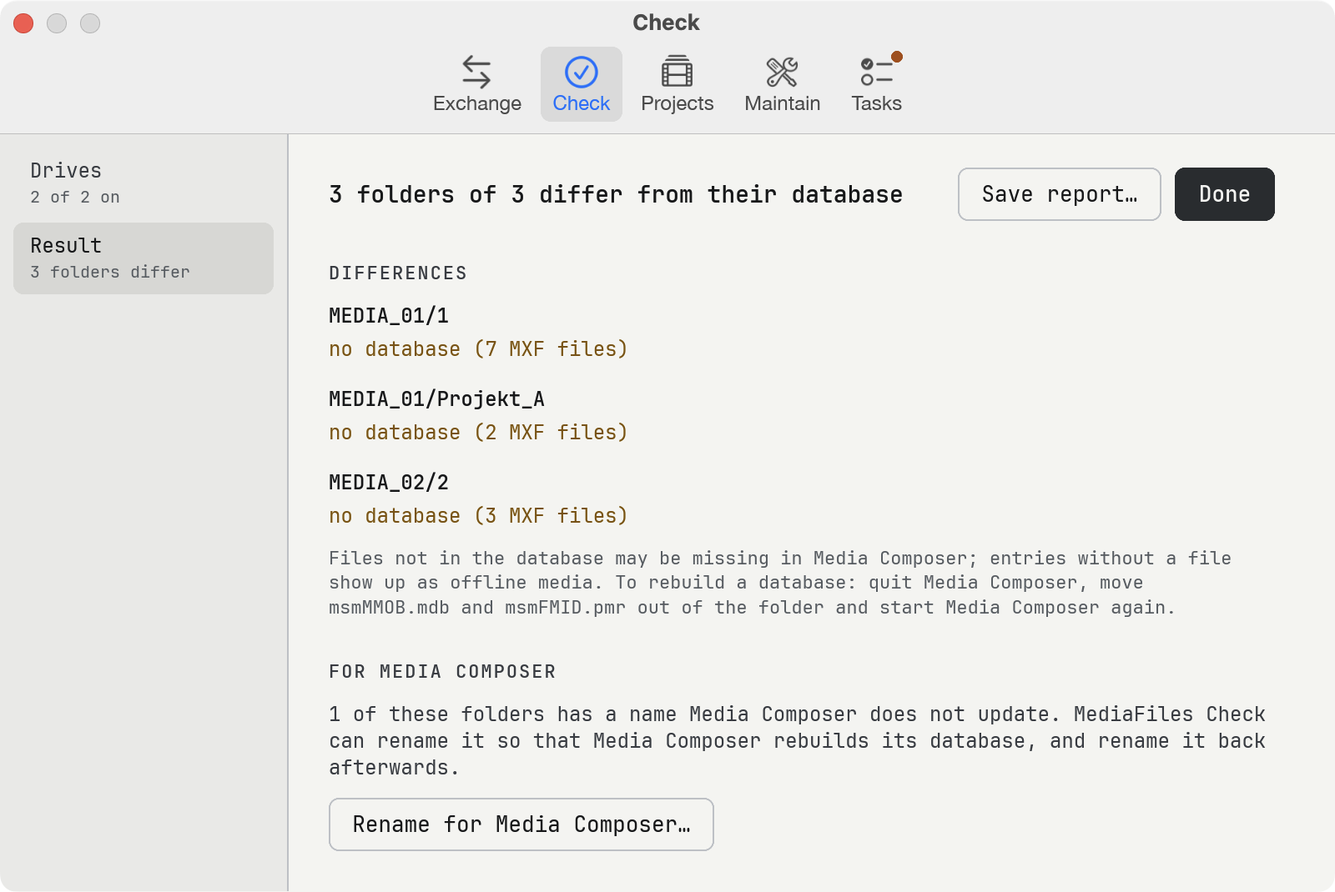
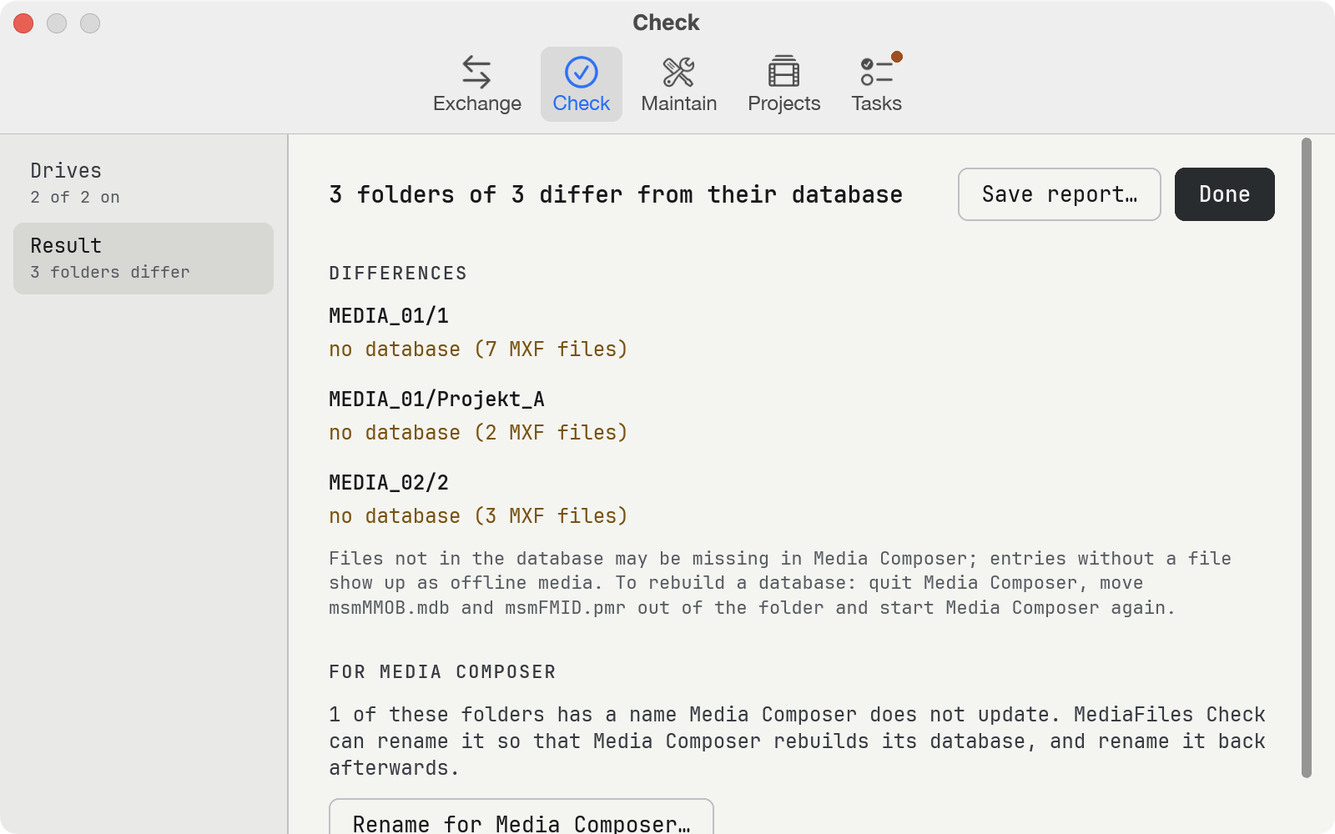
Window 800 × 500, Maintain before Projects
Every tab of the main window is 800 × 500 (the former Exchange height).
Tab order: Exchange, Check, Maintain, Projects, Tasks – also in the
welcome card, the manual and the README. The project list and the
history box are shorter so they fit. Screenshots taken again.

diff --git a/CLAUDE.md b/CLAUDE.md
@@ -16,10 +16,10 @@ Mac app (Rust core + Slint) for the Avid MXF media of edit systems. Since 2026-1
 - Avid projects (`src/projects.rs`, tab Projects – formerly `ProjectsWindow`/`AmaWindow`, now steps Choose projects / Missing media / AMA clips / Request in `ProjectsPane`): project = folder with an `.avp` (no search inside a project – shared projects have more .avp in AvidSharedData), bins without `Attic`. Bin items are all mobs, Media Composer hides most: shown clips = masters, subclips (usage 2), sequences (composition, usage 0). Master usage 1 = render (precompute) master "<sequence>,<effect>,<n>" – their missing files are only counted (`renders`), not listed or requested (test project: 919 render vs 17 real). Result per bin: missing files grouped by name (master clip that owns the file, else file mob name – often just "File" – else first use), each with its uses; ProjectsWindow is 680 px wide, `MissingList` rows open per group (`ProjectsState.open`). References to mobs in other bins are resolved per project. Available = first ID of every msmFMID.pmr entry whose file is really in the folder, plus MXF files in no database identified by their header (`src/mxf.rs`: essence container data → LinkedPackageUID = file package UMID; material number's first three fields big-endian in MXF, swapped to the pmr/bin layout – verified identical to the pmr ID for all ~8,700 files of samples from three of the user's media drives and the Ferry test environment); dot files (AppleDouble `._`) skipped; a drive silent for 30 s is skipped (`available_media`, hanging macFUSE/network mounts block forever). AMA = media descriptor with extension 0x01 (acfUID of the AMA plugin; `Mob::ama`) – AMA files still carry an MSML locator, so the locator says nothing; 4 test projects: 790 AMA file mobs, none in any msmFMID.pmr – not requested; listed per bin with their uses (`ScanResult::ama_by_bin`) in their own `AmaWindow` ("Show AMA clips…" in the result, own open set `ProjectsState::ama_open`, hidden when a new scan starts) and in the saved list. An AMA file whose master clip has a namesake master in the same project with all its media on the drives (linked first, imported later) is left out (`ama_covered`, only counted). Relink = missing file whose source (name of the tape/camera/import source mob below the file mob, `Bin::source_name`, + picture/sound) belongs to an available file mob in the scanned bins (e.g. re-transcoded dailies: new file mob IDs, old bins still point to the old ones) – marked, not requested. "Unmanaged" = file mob without MSML locator (AAF imports) – counted separately, still requested (Ferry only finds what is in Avid MediaFiles). File mob without any locator = no media was ever made (camera sound tracks of camera master clips when only the picture was delivered and sound comes from an external recorder; test project: 839 of 883 "missing") – left out, counted as `no_media`. A source clip points at one track (track number + media kind) of its mob; `Bin::used_tracks` follows only that one (a picture-only subclip must not need the camera sound), all tracks if it is not found. Request = JSON `{format: "mediafiles-ferry-request", version, system, created, files: [{id (64 hex), clip, bin, project}]}`, file `YYMMDD-HHMM_<computer>_Request.ferry`; Ferry reads it in `src/request.rs` (keep both sides in step). Windows that grow stay unpainted below their old height on macOS: every window reports height changes (`CheckWindow`: `changed height => Shared.resized()`) and is wired with `repaint_on_resize!` (app.rs) – use it for any new window.
 
 ## UI
-Main window fixed 800 × 600 for every tab (user: the window must never change size; capped at the screen) – long pages and lists scroll inside; the media lists of Projects open in their own `MediaWindow` (900 × 680, Show media… / Show clips…); wrapping texts need a fixed width (`Metrics.content-width` = content column) – a layout-derived width makes Slint measure one line too few or loops; JetBrains Mono, title in Helvetica Neue Light, colours only from `Theme` (copied from Ferry). Menu: app menu → About and app menu → Settings… (⌘,) both open `SettingsWindow` (About always on the About tab; Settings… on the last other tab, saved as line 3 of settings.txt) – styled like Mountpoint's settings at the user's request: 800 × 450 (16:9, never grows), content under a transparent title bar (`mac_window::unify_titlebar`, full-size content view, minimize dimmed) so the tab bar and the title bar are one surface: #383838/#292929 dark, #f0f0f0/#e7e7e7 light, active/inactive measured from a real NSToolbar window (`active` set at once from swizzled NSWindow becomeKeyWindow/resignKeyWindow – polling lagged behind the title bar), 0.5 px separator; tabs `SettingsTab` (General / Updates / Support / About, Helvetica Neue 12 – the system-font alias lost umlauts –, icons = SF Symbols rendered by `scripts/make-tab-icons.swift` into `assets/tabs/`, tinted with `colorize`, also the self-test status icons), window title = tab, 560 px column, `SettingRow` + `Hint`, buttons `CheckButton { small: true }` (26 px like FerryButtonStyle in Mountpoint's settings); General: Light/Dark `Switch`, language `Dropdown` = Mountpoint's dropdown with a native menu. Toast and fields copied from Mountpoint's Support.swift (toast bottom 44, as wide as its text, slides in; fields: 1 px line, radius 6, no fill); self-test list 200 high like Mountpoint, list and description field show a `ScrollThumb`. Weights in the settings window (measured against Mountpoint: Slint draws text about 20 % lighter than CoreText): default Medium (`default-font-weight: 500`, `ui/fonts/JetBrainsMono-Medium.ttf`, OFL, release 2.304), row titles SemiBold, small buttons SemiBold/Bold – they then look like Mountpoint's Regular/SemiBold. The first text line sits at the same height on every tab (General = Mountpoint's position is the reference; tabs starting with a 26 px button row get 3 px less top padding). Updates tab: "Get test versions" (`Settings.betas`, line 4 of settings.txt; `update::check(…, betas)` includes GitHub prereleases with it or while a test version runs); switching it hides "up to date"/errors and checks again quietly. `Shared.refresh-update` must stay wired in main (it once got lost and "up to date" never showed). Icon: concept A "Badge" (2026-11-09) – solid database + green check on Mountpoint's plate, `scripts/make-icon.swift` → `assets/AppIcon.iconset` + `assets/icon.png` (also the About tab), vector master `assets/icon.svg`. Colours: every NSWindow is tagged sRGB in its initializer (`mac_window::srgb_windows`, swizzled NSWindow init) – Slint's OpenGL output is not colour-managed and #1f2225 showed as #21262a; set later it only worked now and then. Window appearance (title text, traffic lights) follows the app's Light/Dark (`appearance_all`) – `mac_menu` in app.rs swaps NSApplication's About panel methods and adds the Settings item (re-added after Slint's menu rebuilds via `setMainMenu:` swizzle, a timer after language changes and the 2 s timer); Help → Manual, Show Log File (`src/log.rs`, `~/Library/Logs/MediaFiles Check/`) (`HelpWindow`, content from `docs/help/<code>.md`, split by `help_blocks` – same as Ferry; paragraphs need a fixed width or the scroll height comes out too short). Drive list: green dot (drive ready), name, `Switch` on the right (Mountpoint style) (new drives ticked), polled every 2 s on the start page (`sync_drives`). Settings in `~/Library/Application Support/MediaFiles Check/settings.txt`. The result shows up to 10 file names per finding; the saved report has all.
+Main window fixed 800 × 500 for every tab (user: the window must never change size; capped at the screen) – long pages and lists scroll inside; the media lists of Projects open in their own `MediaWindow` (900 × 680, Show media… / Show clips…); wrapping texts need a fixed width (`Metrics.content-width` = content column) – a layout-derived width makes Slint measure one line too few or loops; JetBrains Mono, title in Helvetica Neue Light, colours only from `Theme` (copied from Ferry). Menu: app menu → About and app menu → Settings… (⌘,) both open `SettingsWindow` (About always on the About tab; Settings… on the last other tab, saved as line 3 of settings.txt) – styled like Mountpoint's settings at the user's request: 800 × 450 (16:9, never grows), content under a transparent title bar (`mac_window::unify_titlebar`, full-size content view, minimize dimmed) so the tab bar and the title bar are one surface: #383838/#292929 dark, #f0f0f0/#e7e7e7 light, active/inactive measured from a real NSToolbar window (`active` set at once from swizzled NSWindow becomeKeyWindow/resignKeyWindow – polling lagged behind the title bar), 0.5 px separator; tabs `SettingsTab` (General / Updates / Support / About, Helvetica Neue 12 – the system-font alias lost umlauts –, icons = SF Symbols rendered by `scripts/make-tab-icons.swift` into `assets/tabs/`, tinted with `colorize`, also the self-test status icons), window title = tab, 560 px column, `SettingRow` + `Hint`, buttons `CheckButton { small: true }` (26 px like FerryButtonStyle in Mountpoint's settings); General: Light/Dark `Switch`, language `Dropdown` = Mountpoint's dropdown with a native menu. Toast and fields copied from Mountpoint's Support.swift (toast bottom 44, as wide as its text, slides in; fields: 1 px line, radius 6, no fill); self-test list 200 high like Mountpoint, list and description field show a `ScrollThumb`. Weights in the settings window (measured against Mountpoint: Slint draws text about 20 % lighter than CoreText): default Medium (`default-font-weight: 500`, `ui/fonts/JetBrainsMono-Medium.ttf`, OFL, release 2.304), row titles SemiBold, small buttons SemiBold/Bold – they then look like Mountpoint's Regular/SemiBold. The first text line sits at the same height on every tab (General = Mountpoint's position is the reference; tabs starting with a 26 px button row get 3 px less top padding). Updates tab: "Get test versions" (`Settings.betas`, line 4 of settings.txt; `update::check(…, betas)` includes GitHub prereleases with it or while a test version runs); switching it hides "up to date"/errors and checks again quietly. `Shared.refresh-update` must stay wired in main (it once got lost and "up to date" never showed). Icon: concept A "Badge" (2026-11-09) – solid database + green check on Mountpoint's plate, `scripts/make-icon.swift` → `assets/AppIcon.iconset` + `assets/icon.png` (also the About tab), vector master `assets/icon.svg`. Colours: every NSWindow is tagged sRGB in its initializer (`mac_window::srgb_windows`, swizzled NSWindow init) – Slint's OpenGL output is not colour-managed and #1f2225 showed as #21262a; set later it only worked now and then. Window appearance (title text, traffic lights) follows the app's Light/Dark (`appearance_all`) – `mac_menu` in app.rs swaps NSApplication's About panel methods and adds the Settings item (re-added after Slint's menu rebuilds via `setMainMenu:` swizzle, a timer after language changes and the 2 s timer); Help → Manual, Show Log File (`src/log.rs`, `~/Library/Logs/MediaFiles Check/`) (`HelpWindow`, content from `docs/help/<code>.md`, split by `help_blocks` – same as Ferry; paragraphs need a fixed width or the scroll height comes out too short). Drive list: green dot (drive ready), name, `Switch` on the right (Mountpoint style) (new drives ticked), polled every 2 s on the start page (`sync_drives`). Settings in `~/Library/Application Support/MediaFiles Check/settings.txt`. The result shows up to 10 file names per finding; the saved report has all.
 
 ## Main window: tabs and steps (one app, 2026-11-09)
-`AppWindow`: tab bar in the title-bar surface like the settings window (`SettingsTab` with `attention` = small orange dot; `unify_titlebar` + `active` also for the main window), optional update bar, then sidebar (172 px, `SideItem`: step name + faint status line – variant C: no numbers, no checkmarks, no green) and the content column. Tabs: 0 Exchange, 1 Check, 2 Projects, 3 Maintain, 4 Tasks; window title = tab. `Page` says what the content shows; `tab-of`/`step-of` map pages to tab and sidebar step, every tab remembers its page (`page0`…`page4`), a page set from Rust switches to its tab (working/notice stay where they are). Rust's "back" = `invoke_home()` (start page of the current step). Projects, Exchange and Tasks keep their state in globals (`Projects`, `Exchange`, `Tasks`) with a `view` = sidebar step, drawn by `ProjectsPane`/`ExchangePane`/`TasksPane`. Page heads: `PageHead` (title left, actions right); Maintain tools show their flow as `FlowStrip` (current part bold). One set of drive switches for Check and Exchange (`Drives`, persisted in `drives-off.txt` by `key` of the name; the first time Ferry's settings.json `skip` is taken over).
+`AppWindow`: tab bar in the title-bar surface like the settings window (`SettingsTab` with `attention` = small orange dot; `unify_titlebar` + `active` also for the main window), optional update bar, then sidebar (172 px, `SideItem`: step name + faint status line – variant C: no numbers, no checkmarks, no green) and the content column. Tabs (index): 0 Exchange, 1 Check, 2 Projects, 3 Maintain, 4 Tasks – shown in the order Exchange, Check, Maintain, Projects, Tasks (user, 2026-11-09); window title = tab. `Page` says what the content shows; `tab-of`/`step-of` map pages to tab and sidebar step, every tab remembers its page (`page0`…`page4`), a page set from Rust switches to its tab (working/notice stay where they are). Rust's "back" = `invoke_home()` (start page of the current step). Projects, Exchange and Tasks keep their state in globals (`Projects`, `Exchange`, `Tasks`) with a `view` = sidebar step, drawn by `ProjectsPane`/`ExchangePane`/`TasksPane`. Page heads: `PageHead` (title left, actions right); Maintain tools show their flow as `FlowStrip` (current part bold). One set of drive switches for Check and Exchange (`Drives`, persisted in `drives-off.txt` by `key` of the name; the first time Ferry's settings.json `skip` is taken over).
 
 ## Exchange (formerly MediaFiles Ferry)
 Core in `src/ferry/` (copied from the Ferry repo with its tests: scan, plan, collect, request, flow; `use crate::ferry::*`). Rules carried over: never delete a media file, never overwrite one; a database is only delivered/replaced if the target folder ends up exactly like the source (else task "rebuild database"), replaced ones go to `Avid MediaFiles/Ferry-Backup/`; present = same name + hash anywhere on the other side, same name + different hash = task; import verifies the whole delivery first and only imports a complete one; `key()` compare, `write_atomic`. File names stay readable for existing users: `.ferry` manifests/requests, `ferry-delivery.json`, `Ferry-Backup/`, `Tasks.txt`/`Aufgaben.txt`. Ferry's Application Support folder "MediaFiles Ferry" (checksum cache, last-manifest.json, mappings.json) is used as is (`ferry_dir`). Task texts (`Task::describe`) and the delivery's task file are in all four languages via `pick` (file name `Aufgaben.txt` for de, else `Tasks.txt`). UI wiring `wire_exchange` (app.rs); worker threads never hold `Rc` – they call a global callback (`Exchange.rescanned`, `Tasks.reload`) via `invoke_from_event_loop`. Tested end to end on two disk images (scan, compare with mapping + merge, collect, import, byte-identical).

diff --git a/docs/help/fr.md b/docs/help/fr.md
@@ -6,8 +6,8 @@ MediaFiles Check prend soin des fichiers média Avid (MXF) de vos postes de mont
 
 - **Échange** synchronise les médias de deux postes, même s’ils ne sont pas connectés (anciennement MediaFiles Ferry).
 - **Vérifier** compare chaque dossier de `Avid MediaFiles/MXF` à sa base de données Avid et montre où les deux ne concordent pas.
-- **Projets** trouve les fichiers média dont les chutiers de vos projets Avid ont besoin et qui ne sont sur aucun disque, et les demande.
 - **Entretien** regroupe les outils qui modifient quelque chose : renommer des dossiers pour Media Composer, rééquilibrage, doublons et leur historique.
+- **Projets** trouve les fichiers média dont les chutiers de vos projets Avid ont besoin et qui ne sont sur aucun disque, et les demande.
 - **Tâches** réunit tout ce qu’il faut faire à la main.
 
 MediaFiles Check **ne supprime jamais** un fichier média et **n’en écrase jamais**. Vérifier ne fait que lire.
@@ -84,21 +84,6 @@ Jusqu’à 10 noms de fichiers sont affichés par constat ; **Enregistrer le rap
 
 ![Résultat de la vérification](images/fr/check.png)
 
-## Projets
-
-1. Projets › **Choisir les projets** → **Choisir un dossier…** : le dossier de vos projets Avid (chaque dossier avec un fichier `.avp` ; `Attic` est laissé de côté). Il est mémorisé. Activez les projets à vérifier et cliquez sur **Analyser**.
-2. **Médias manquants** liste par chutier chaque fichier média manquant une fois, nommé d’après son master clip. Un clic montre où il est utilisé. **Enregistrer la liste…** écrit la liste entière.
-3. **Clips AMA** montre où sont utilisés les fichiers liés en AMA. Ils ne sont pas demandés.
-4. **Demander** → **Enregistrer la demande…** écrit un fichier `…_Request.ferry`. Envoyez-le au poste qui a les médias ; là-bas : Échange › Comparer, ouvrez-le, puis Rassembler. Ici : Échange › Importer la livraison.
-
-Bon à savoir :
-
-- Les clips sont reliés à leurs médias par les ID média d’Avid, pas par les noms de fichiers. Un fichier présent dans aucune base Avid est reconnu par l’ID de son en-tête MXF.
-- Un fichier manquant dont la source se trouve sur les disques dans un autre fichier média est marqué **sur les disques – reconnecter** : reconnectez-le dans Media Composer. Il n’est pas demandé.
-- Les fichiers sans référence média Avid (p. ex. importés par AAF) sont comptés à part ; l’échange ne les trouve que si l’autre poste les a dans Avid MediaFiles.
-- Les pistes son de caméra qui n’ont jamais eu de fichier média et les fichiers de rendu manquants sont seulement comptés.
-- Un disque qui ne répond pas pendant 30 secondes est ignoré et nommé dans le résultat.
-
 ## Renommer pour Media Composer
 
 Media Composer ne reconstruit que les bases de données de ses propres dossiers : des dossiers numérotés comme `1` sur les disques locaux, `<nom de l’ordinateur>.<numéro>` sur les disques réseau. Les autres dossiers – p. ex. copiés depuis un autre poste – gardent leur ancienne base. Entretien › **Renommer** montre le déroulement en haut : Renommer — Media Composer écrit — Renommer à l’origine.
@@ -134,6 +119,21 @@ Le point vert marque la copie qui reste (celle que connaît la base de son dossi
 ## Historique
 
 Entretien › **Historique** liste chaque opération de rééquilibrage et de doublons : **Réécrire les bases** fait l’étape des bases plus tard, **Annuler** remet tout en place (jamais par-dessus un fichier existant) – renommez d’abord à l’origine les dossiers renommés.
+
+## Projets
+
+1. Projets › **Choisir les projets** → **Choisir un dossier…** : le dossier de vos projets Avid (chaque dossier avec un fichier `.avp` ; `Attic` est laissé de côté). Il est mémorisé. Activez les projets à vérifier et cliquez sur **Analyser**.
+2. **Médias manquants** liste par chutier chaque fichier média manquant une fois, nommé d’après son master clip. Un clic montre où il est utilisé. **Enregistrer la liste…** écrit la liste entière.
+3. **Clips AMA** montre où sont utilisés les fichiers liés en AMA. Ils ne sont pas demandés.
+4. **Demander** → **Enregistrer la demande…** écrit un fichier `…_Request.ferry`. Envoyez-le au poste qui a les médias ; là-bas : Échange › Comparer, ouvrez-le, puis Rassembler. Ici : Échange › Importer la livraison.
+
+Bon à savoir :
+
+- Les clips sont reliés à leurs médias par les ID média d’Avid, pas par les noms de fichiers. Un fichier présent dans aucune base Avid est reconnu par l’ID de son en-tête MXF.
+- Un fichier manquant dont la source se trouve sur les disques dans un autre fichier média est marqué **sur les disques – reconnecter** : reconnectez-le dans Media Composer. Il n’est pas demandé.
+- Les fichiers sans référence média Avid (p. ex. importés par AAF) sont comptés à part ; l’échange ne les trouve que si l’autre poste les a dans Avid MediaFiles.
+- Les pistes son de caméra qui n’ont jamais eu de fichier média et les fichiers de rendu manquants sont seulement comptés.
+- Un disque qui ne répond pas pendant 30 secondes est ignoré et nommé dans le résultat.
 
 ## Tâches
 

diff --git a/docs/help/es.md b/docs/help/es.md
@@ -6,8 +6,8 @@ MediaFiles Check cuida de los archivos de medios de Avid (MXF) de tus puestos de
 
 - **Intercambio** mantiene al día los medios de dos puestos, aunque no estén conectados (antes MediaFiles Ferry).
 - **Comprobar** compara cada carpeta de `Avid MediaFiles/MXF` con su base de datos de Avid y muestra dónde no coinciden.
-- **Proyectos** encuentra los archivos de medios que necesitan los bins de tus proyectos de Avid y que no están en ninguna unidad, y los solicita.
 - **Mantenimiento** reúne las herramientas que cambian algo: renombrar carpetas para Media Composer, reequilibrado, duplicados y su historial.
+- **Proyectos** encuentra los archivos de medios que necesitan los bins de tus proyectos de Avid y que no están en ninguna unidad, y los solicita.
 - **Tareas** recoge todo lo que hay que hacer a mano.
 
 MediaFiles Check **nunca borra** un archivo de medios y **nunca sobrescribe** ninguno. Comprobar solo lee.
@@ -84,21 +84,6 @@ Se muestran hasta 10 nombres de archivo por hallazgo; **Guardar informe…** los
 
 ![Resultado de la comprobación](images/es/check.png)
 
-## Proyectos
-
-1. Proyectos › **Elegir proyectos** → **Elegir carpeta…**: la carpeta con tus proyectos de Avid (cada carpeta con un archivo `.avp`; `Attic` se deja fuera). Se recuerda. Activa los proyectos que quieras comprobar y haz clic en **Analizar**.
-2. **Medios que faltan** muestra por bin cada archivo de medios que falta una vez, con el nombre de su master clip. Un clic muestra dónde se usa. **Guardar lista…** escribe la lista entera.
-3. **Clips AMA** muestra dónde se usan los archivos vinculados por AMA. No se solicitan.
-4. **Solicitar** → **Guardar solicitud…** escribe un archivo `…_Request.ferry`. Envíalo al puesto que tiene los medios; allí: Intercambio › Comparar, ábrelo y luego Reunir. Aquí: Intercambio › Importar la entrega.
-
-Conviene saber:
-
-- Los clips se relacionan con sus medios por los ID de medios de Avid, no por los nombres de archivo. Un archivo que no está en ninguna base de Avid se reconoce por el ID de su cabecera MXF.
-- Un archivo que falta cuya fuente está en las unidades en otro archivo de medios se marca **en las unidades: volver a vincular**: vuelve a vincularlo en Media Composer. No se solicita.
-- Los archivos sin referencia de medios de Avid (p. ej. importados por AAF) se cuentan aparte; el intercambio solo los encuentra si el otro puesto los tiene en Avid MediaFiles.
-- Las pistas de sonido de cámara que nunca tuvieron archivo de medios y los archivos de render que faltan solo se cuentan.
-- Una unidad que no responde durante 30 segundos se omite y se nombra en el resultado.
-
 ## Renombrar para Media Composer
 
 Media Composer solo reconstruye las bases de datos de sus propias carpetas: carpetas numeradas como `1` en unidades locales, `<nombre del equipo>.<número>` en unidades de red. Las demás carpetas, p. ej. copiadas de otro puesto, conservan su base de datos antigua. Mantenimiento › **Renombrar** muestra el proceso arriba: Renombrar — Media Composer escribe — Recuperar el nombre.
@@ -134,6 +119,21 @@ El punto verde marca la copia que se queda (la que conoce la base de datos de su
 ## Historial
 
 Mantenimiento › **Historial** muestra cada operación de reequilibrado y de duplicados: **Reescribir bases de datos** hace el paso de las bases más tarde, **Deshacer** lo devuelve todo (nunca sobre un archivo existente); recupera antes el nombre de las carpetas renombradas.
+
+## Proyectos
+
+1. Proyectos › **Elegir proyectos** → **Elegir carpeta…**: la carpeta con tus proyectos de Avid (cada carpeta con un archivo `.avp`; `Attic` se deja fuera). Se recuerda. Activa los proyectos que quieras comprobar y haz clic en **Analizar**.
+2. **Medios que faltan** muestra por bin cada archivo de medios que falta una vez, con el nombre de su master clip. Un clic muestra dónde se usa. **Guardar lista…** escribe la lista entera.
+3. **Clips AMA** muestra dónde se usan los archivos vinculados por AMA. No se solicitan.
+4. **Solicitar** → **Guardar solicitud…** escribe un archivo `…_Request.ferry`. Envíalo al puesto que tiene los medios; allí: Intercambio › Comparar, ábrelo y luego Reunir. Aquí: Intercambio › Importar la entrega.
+
+Conviene saber:
+
+- Los clips se relacionan con sus medios por los ID de medios de Avid, no por los nombres de archivo. Un archivo que no está en ninguna base de Avid se reconoce por el ID de su cabecera MXF.
+- Un archivo que falta cuya fuente está en las unidades en otro archivo de medios se marca **en las unidades: volver a vincular**: vuelve a vincularlo en Media Composer. No se solicita.
+- Los archivos sin referencia de medios de Avid (p. ej. importados por AAF) se cuentan aparte; el intercambio solo los encuentra si el otro puesto los tiene en Avid MediaFiles.
+- Las pistas de sonido de cámara que nunca tuvieron archivo de medios y los archivos de render que faltan solo se cuentan.
+- Una unidad que no responde durante 30 segundos se omite y se nombra en el resultado.
 
 ## Tareas
 

diff --git a/docs/help/en.md b/docs/help/en.md
@@ -6,8 +6,8 @@ MediaFiles Check looks after the Avid media files (MXF) of your edit systems:
 
 - **Exchange** keeps the media of two edit systems in step, even when they are not connected (formerly MediaFiles Ferry).
 - **Check** compares every folder in `Avid MediaFiles/MXF` with its Avid database and shows where the two don't match.
-- **Projects** finds the media files the bins of your Avid projects need that are on none of the drives, and requests them.
 - **Maintain** has the tools that change something: rename folders for Media Composer, rebalancing, duplicates, and their history.
+- **Projects** finds the media files the bins of your Avid projects need that are on none of the drives, and requests them.
 - **Tasks** collects everything that has to be done by hand.
 
 MediaFiles Check **never deletes** a media file and **never overwrites** one. Checking only reads.
@@ -84,21 +84,6 @@ Up to 10 file names are shown per finding; **Save report…** writes all of them
 
 ![Check result](images/en/check.png)
 
-## Projects
-
-1. Projects › **Choose projects** → **Choose folder…**: the folder with your Avid projects (every folder with an `.avp` file; `Attic` is left out). It is remembered. Switch on the projects to check and click **Scan**.
-2. **Missing media** lists per bin each missing media file once, named after its master clip. Click a file to see where it is used. **Save list…** writes the whole list.
-3. **AMA clips** shows where AMA-linked files are used. They are not requested.
-4. **Request** → **Save request…** writes a `…_Request.ferry` file. Send it to the system that has the media; there: Exchange › Compare, open it, then Collect. Here: Exchange › Import the delivery.
-
-Good to know:
-
-- Clips are matched with their media by Avid's media IDs, not by file names. A file in no Avid database is identified by the ID in its MXF header.
-- A missing file whose source is on the drives in another media file is marked **on the drives – relink**: relink it in Media Composer. It is not requested.
-- Files without an Avid media reference (e.g. imported via AAF) are counted separately; the exchange only finds them if the other system has them in Avid MediaFiles.
-- Camera sound tracks that never had a media file, and missing render files, are only counted.
-- A drive that does not answer for 30 seconds is skipped and named in the result.
-
 ## Rename for Media Composer
 
 Media Composer only rebuilds the databases of its own folders: numbered folders like `1` on local drives, `<computer name>.<number>` on network drives. Other folders – e.g. copied from another system – keep their old database. Maintain › **Rename** shows the flow at the top: Rename — Media Composer writes — Rename back.
@@ -134,6 +119,21 @@ The green dot marks the copy that stays (the one its folder's database knows, ot
 ## History
 
 Maintain › **History** lists every rebalancing and duplicates run: **Rewrite databases** does the database step later, **Undo** moves everything back (never over an existing file) – rename renamed folders back first.
+
+## Projects
+
+1. Projects › **Choose projects** → **Choose folder…**: the folder with your Avid projects (every folder with an `.avp` file; `Attic` is left out). It is remembered. Switch on the projects to check and click **Scan**.
+2. **Missing media** lists per bin each missing media file once, named after its master clip. Click a file to see where it is used. **Save list…** writes the whole list.
+3. **AMA clips** shows where AMA-linked files are used. They are not requested.
+4. **Request** → **Save request…** writes a `…_Request.ferry` file. Send it to the system that has the media; there: Exchange › Compare, open it, then Collect. Here: Exchange › Import the delivery.
+
+Good to know:
+
+- Clips are matched with their media by Avid's media IDs, not by file names. A file in no Avid database is identified by the ID in its MXF header.
+- A missing file whose source is on the drives in another media file is marked **on the drives – relink**: relink it in Media Composer. It is not requested.
+- Files without an Avid media reference (e.g. imported via AAF) are counted separately; the exchange only finds them if the other system has them in Avid MediaFiles.
+- Camera sound tracks that never had a media file, and missing render files, are only counted.
+- A drive that does not answer for 30 seconds is skipped and named in the result.
 
 ## Tasks
 

diff --git a/README.md b/README.md
@@ -17,8 +17,8 @@ One window with five tabs; each tab lists its steps on the left in the order you
 
 <p align="center"><picture><source media="(prefers-color-scheme: dark)" srcset="assets/screenshots/check-dark.png"><img src="assets/screenshots/check-light.png" width="700" alt="Check: folders that differ from their database"></picture></p>
 
-- **Projects** reads every bin (`.avb`) of the Avid projects you switch on, follows each master clip, subclip and sequence to its media files and lists per bin those that are on none of the connected drives. Render and AMA-linked files are only counted; files whose source is on the drives in another media file are marked for relinking. **Save request…** writes a `…_Request.ferry` file that Exchange opens on the system that has the media. Bins are read with a small reader of our own (`src/avb.rs`), based on the format knowledge of [pyavb](https://github.com/markreidvfx/pyavb) (MIT, see THIRD-PARTY.md).
 - **Maintain:** *Rename for Media Composer* – Media Composer only rebuilds the databases of its own folders (numbers on local drives, `<computer name>.<number>` on network drives); MediaFiles Check gives other folders such a name, remembers the original name and every media file, shows when Media Composer has rewritten the database and renames them back. *Rebalancing* splits MXF folders with more than 5000 files, the two database files included (adjustable): the oldest files move into `-rebalanced-1`, `-2` … folders. *Duplicates* finds media files that are on the drives more than once (by their Media Composer ID, also when renamed) and sets the extra copies aside on their own drive. *History* undoes any run.
+- **Projects** reads every bin (`.avb`) of the Avid projects you switch on, follows each master clip, subclip and sequence to its media files and lists per bin those that are on none of the connected drives. Render and AMA-linked files are only counted; files whose source is on the drives in another media file are marked for relinking. **Save request…** writes a `…_Request.ferry` file that Exchange opens on the system that has the media. Bins are read with a small reader of our own (`src/avb.rs`), based on the format knowledge of [pyavb](https://github.com/markreidvfx/pyavb) (MIT, see THIRD-PARTY.md).
 - **Tasks** lists everything that needs doing by hand – tasks of deliveries, databases still to be rewritten, folders waiting to be renamed back – with a button where the app can help, plus instructions for importing a delivery by hand.
 
 Nothing is ever deleted or overwritten. English, German, French and Spanish (Settings → Language), dark or light, a built-in manual (Help → Manual) and a log file for error reports (Help → Show Log File). Updates install from within the app.
